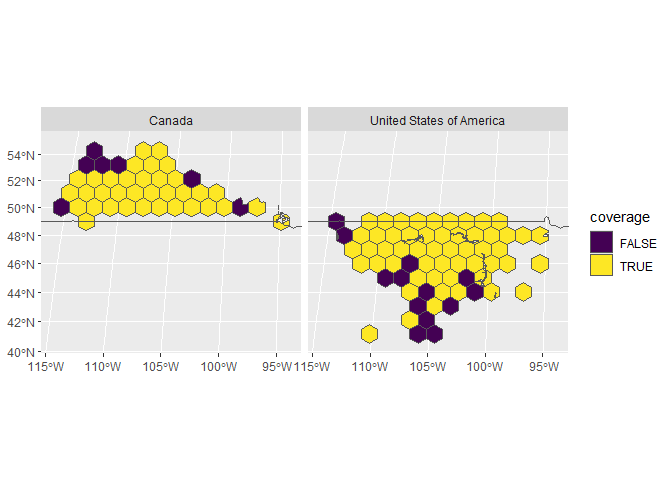
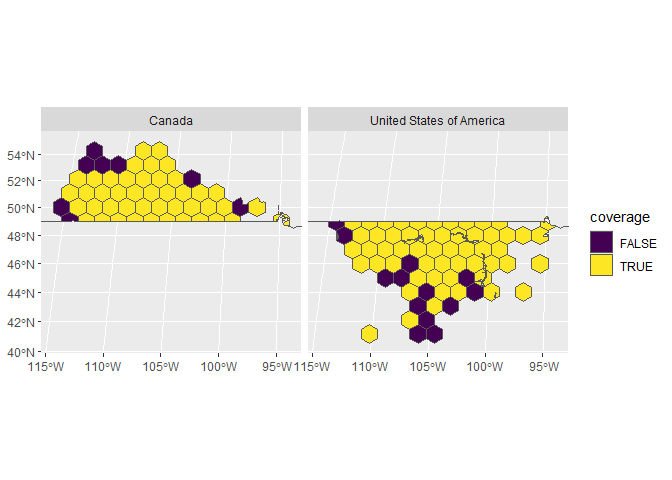
adding the use_intersection argument to regional_summary()

diff --git a/README.md b/README.md
@@ -98,8 +98,8 @@ library(tidyverse)
 #> ── Attaching core tidyverse packages ──────────────────────── tidyverse 2.0.0 ──
 #> ✔ dplyr     1.1.4     ✔ readr     2.1.5
 #> ✔ forcats   1.0.0     ✔ stringr   1.5.1
-#> ✔ ggplot2   3.5.0     ✔ tibble    3.2.1
-#> ✔ lubridate 1.9.3     ✔ tidyr     1.3.1
+#> ✔ ggplot2   3.5.1     ✔ tibble    3.2.1
+#> ✔ lubridate 1.9.4     ✔ tidyr     1.3.1
 #> ✔ purrr     1.0.2     
 #> ── Conflicts ────────────────────────────────────────── tidyverse_conflicts() ──
 #> ✖ dplyr::filter() masks stats::filter()
@@ -289,13 +289,23 @@ the `regional_summary()` function requires the output of the previous
 function and a map of the two countries (polygons).
 
 ``` r
+library(bbsBayes2)
+#> Warning: package 'bbsBayes2' was built under R version 4.4.2
+#> bbsBayes2 v1.1.2.1
+#> Note: This is the successor to bbsBayes with a major shift in functionality, noteably:
+#>  - The Bayesian modelling engine has switched from *JAGS* to *Stan*
+#>  - The workflow has been streamlined, resulting in new functions/arguments
+#> See the documentation for more details: https://bbsBayes.github.io/bbsBayes2
 
 national_map <- bbsBayes2::load_map(stratify_by = "prov_state")
 # The prov_state map in bbsBayes2 includes a country column indicator.
 
 national_summary <- regional_summary(coverage = basp_coverage,
                                      regions = national_map,
-                                     region_name = "country")
+                                     region_name = "country",
+                                     use_intersection = TRUE)
+#> Warning: attribute variables are assumed to be spatially constant throughout
+#> all geometries
 #> joining annual coverage map with regions
 
 
@@ -333,8 +343,8 @@ list, and the objects are very similar to the output from the
 5.  regional_cumulative_coverage_estimate - dataframe of area and
     proportion of range covered by region.
 
-Our example here suggests that the BBS covers approximately 83% of the
-species range in Canada, and 80% of the species range in the United
+Our example here suggests that the BBS covers approximately 85% of the
+species range in Canada, and 81% of the species range in the United
 States.
 
 ``` r
